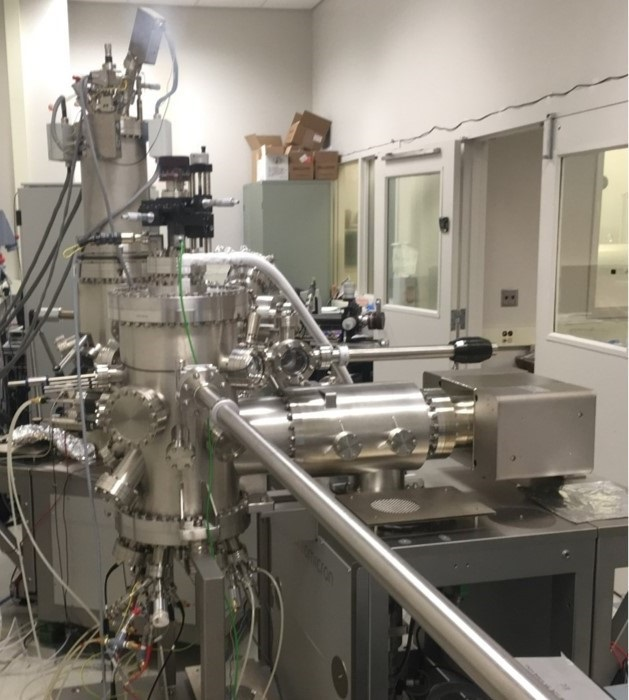
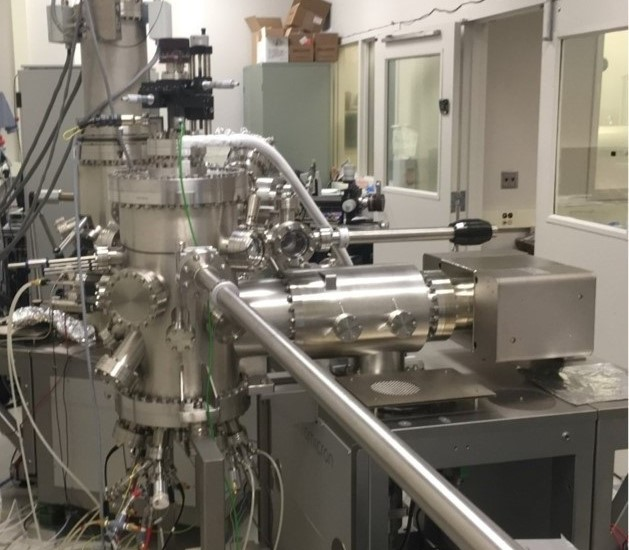
adjust font size, picture, and add seo

diff --git a/index.html b/index.html
@@ -1,5 +1,6 @@
 <!DOCTYPE html>
 <html lang="en">
+{% seo %}
 <head>
     <meta charset="utf-8">
     <meta http-equiv="X-UA-Compatible" content="IE=edge">
@@ -172,7 +173,7 @@ http://www.templatemo.com/tm-483-lumino
                         <div class="tm-news-item">
 
                             <div class="col-xs-12 col-sm-12 col-md-12 col-lg-6 col-xl-6 tm-news-item-img-container">
-                                <img src="img/MBE2.jpg" alt="Image" class="img-fluid tm-news-item-img">
+                                <img src="img/MBE4.jpg" alt="Image" class="img-fluid tm-news-item-img">
                             </div>
 
                             <div class="col-xs-12 col-sm-12 col-md-12 col-lg-6 col-xl-6 tm-news-container">

diff --git a/css/templatemo-style.css b/css/templatemo-style.css
@@ -7,7 +7,7 @@ http://www.templatemo.com/tm-483-lumino
 */
 body {
 	font-family: 'Open Sans', Helvetica, Arial, sans-serif;
-	font-size: 19px;
+	font-size: 16px;  
 	font-weight: 100;
 }
 
